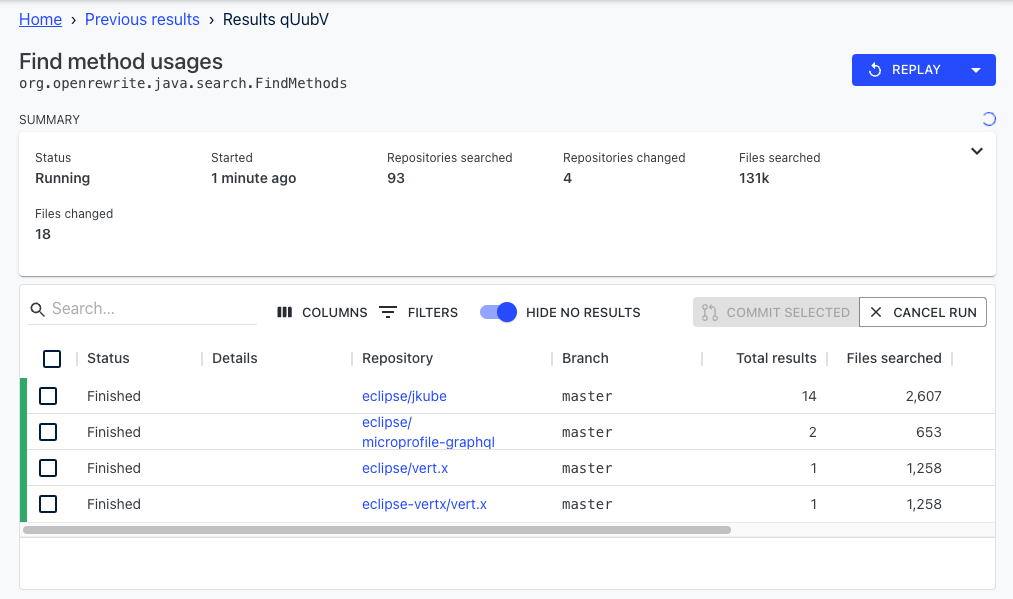
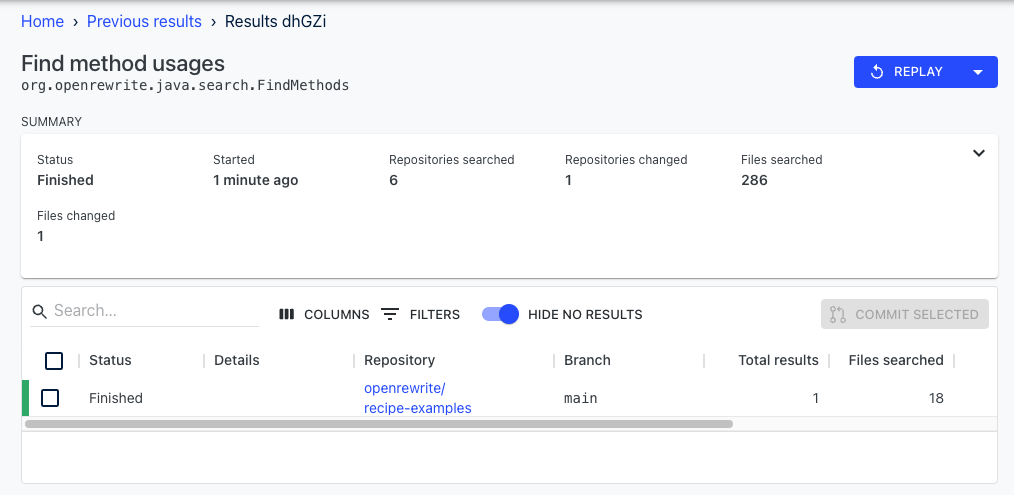
Update type aware search doc to use recipe-examples
Previously, the doc was using examples that I found in random
repositories. However, as people change code over time, that could
mean that the tutorials go out of date. I created a recipe-examples
repository to store code in that I can use to highlight examples
in these tutorials.

On top of that, I switched the example from `createFile` to
`createTempFile` to lead in to another tutorial where we'll use
a security recipe to update the file.

diff --git a/user-documentation/introduction-to-type-aware-code-search.md b/user-documentation/introduction-to-type-aware-code-search.md
@@ -10,7 +10,7 @@ To help you get accustomed to Moderne's search capabilities, in this guide, we w
 
 ## Using a search recipe
 
-As an example, let's say you are wanting to find all of the places that use the `createFile` method from `java.nio.file.Files` in your code base. To begin this search:
+As an example, let's say that you are wanting to find all of the places where your team is using the `createTempFile` method from `java.io.File`. If you searched for `createTempFile` in GitHub, you might end up with a ton of irrelevant results as this is a fairly common method name. To find results that match the method name _and_ are from the correct library please follow these steps:
 
 * From the [Java Search](https://public.moderne.io/catalog/org.openrewrite.java.search) page, scroll down and click on `Find method usages`. You will see this: 
 
@@ -20,23 +20,23 @@ As an example, let's say you are wanting to find all of the places that use the 
   * Click on `Select Repositories`.
   * Press `Add Filter`. 
   * Select what you want to filter on such as `Organization`.
-  * Type the text you want to search for such as `eclipse`. You should see the repositories filter down as desired.
+  * Type the text you want to search for such as `openrewrite`. You should see the repositories filter down as desired.
   * Press the `>>` button to select all of the filtered repositories. 
   * Click out of the modal to confirm your choices.
 
-* Enter the fully qualified class name of `java.nio.file.Files` in the receiver type field.
-* Enter the method name of `createFile` in the method name field.
+* Enter the fully qualified class name of `java.io.File` in the receiver type field.
+* Enter the method name of `createTempFile` in the method name field.
 * Enter `..` in the argument type field to denote that we want to search for any amount of arguments.
 * Select `none` for the flow.
 * Your window should look like: 
 
-    ![](../.gitbook/assets/find-method-usage-eclipse.png)
+    ![](../.gitbook/assets/find-method-usage-openrewrite.png)
 
 * Press `Dry Run` to begin the search. You will be redirected to a page that looks like:
 
     ![](../.gitbook/assets/find-method-usage-results.png)
 
-* If you click on one of the repository names such as `eclipse/jkube`, you'll be taken into the code for that repository. Lines that match the search will be underlined and marked with a magnifying glass icon. These lines match the type that was specified in the search. This means that if any other `createFile` method was invoked, you wouldn't see those results here. Instead, you will see:
+* If you click on one of the repository names such as `openrewrite/recipe-examples`, you'll be taken into the code for that repository. Lines that match the search will be underlined and marked with a magnifying glass icon. These lines match the type that was specified in the search. This means that if any other `createTempFile` method was invoked, you wouldn't see those results here. Instead, you will see:
 
     ![](../.gitbook/assets/find-method-usage-result.png)
 
